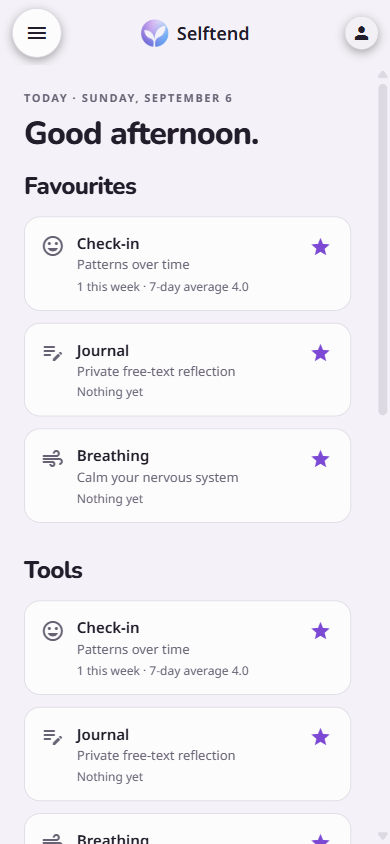
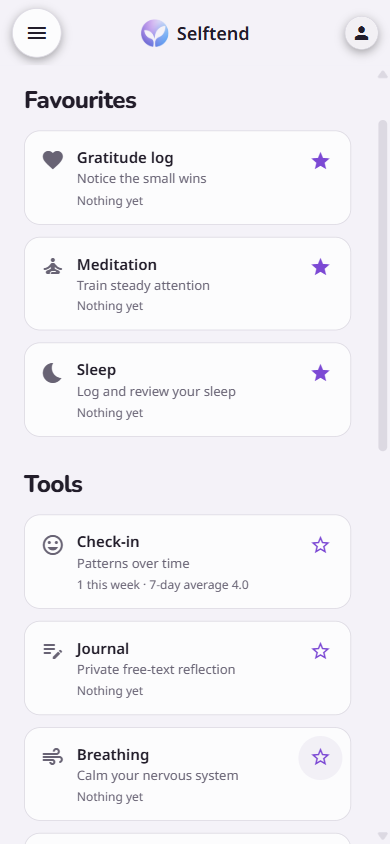
fix(store): the lead image stops carrying a date, and a card stops appearing twice (#2041)
Review of the first commit found two flaws in the new Home mockup that the
ticket did not ask about and that neither the old asset nor any test would have
surfaced.

☠ The capture baked `TODAY · SUNDAY, SEPTEMBER 6` into the store's lead image.
A feature graphic outlives the day it was shot by months, so a printed date is
staleness with a timestamp on it - more visible, eventually, than the American
spellings this ticket exists to remove. Not a regression: the July capture it
replaced carried `THURSDAY, JULY 16` for its whole life on the listing, which is
why the rule is now written down rather than just applied. The Home capture is
scrolled to put the `Favourites` heading under the app bar, leaving the greeting
card above the viewport.

⚠ Favourites is a pinned subset of the Tools list, so favouriting the first few
tools put the identical card on screen twice - Check-in, Journal and Breathing
appeared in both sections in frame. The favourites are now Gratitude log,
Meditation and Sleep, which sit low in the Tools list, so nothing repeats. The
visible Check-in card keeps its real stat line.

Also, from the standards pass: `store/play-listing.md` was re-teaching the
capture lesson the README owns, in prose that would drift out of step with it,
and had slipped into the present tense about a defect that no longer exists. It
now states the Console consequence, which is its own subject, and points at the
README for the rest.
[…]

diff --git a/store/play-listing.md b/store/play-listing.md
@@ -97,9 +97,9 @@ So the listing tells one story in Play's own terms: _mild content, designed for 
 
 ☠ **_“It is an image, so no gate can see it”_ was half wrong, and the wrong half is the useful one.** The PNG is unreadable to a gate; the **HTML it is rendered from is text in this repository**, and was ungated only by two accidents of corpus construction — `test/positioning-copy.test.ts` keeps `.md` files alone (`proseDocIds` filters on the extension), and `docs/launch/` sits in `PUBLISHED_RECORDS` because the directory also holds an already-posted Reddit banner. A store asset that is regenerated on demand is not the same kind of object as a banner that was posted once, and the exclusion does not distinguish them.
 
-☠ **A second defect rode in the same image and no copy edit reached it** ([#2041](https://github.com/Selftend/selftend/issues/2041)). The three phone mockups were pre-v0.5.0 captures that legibly read **"Cognitive Behavioral Therapy"**, **"Your CBT program"** and **"Start program"** — the American spellings `verify` bans in app copy ([#1627](https://github.com/Selftend/selftend/issues/1627), [#1651](https://github.com/Selftend/selftend/issues/1651)), published inside a store asset. Those words exist only as pixels, so the fix was new captures from a current build, not an edit to the HTML.
+☠ **A second defect rode in the same image and no copy edit reached it** ([#2041](https://github.com/Selftend/selftend/issues/2041)). The three phone mockups were pre-v0.5.0 captures that legibly read **"Cognitive Behavioral Therapy"**, **"Your CBT program"** and **"Start program"** — the American spellings `verify` bans in app copy ([#1627](https://github.com/Selftend/selftend/issues/1627), [#1651](https://github.com/Selftend/selftend/issues/1651)), published inside a store asset. Those words existed only as pixels, so the fix was new captures from a current build, not an edit to the HTML.
 
-✅ **Retaken 2026-09-06 and the PNG re-rendered.** ☠ The premise that this needed a device and therefore a human was wrong twice over: the mockups are **browser** captures at 390×844, and `staging.selftend.org` was already serving the current British spellings while **production still lagged** — so the capture source mattered more than the capture device. All three were replaced rather than just the offending one, because the middle mockup's Dashboard screen no longer exists in that shape and a lead image mixing two app generations is a worse asset than the one it replaces. ⚠ **The repository asset and the Console asset are now one review apart**: the graphic submitted earlier the same day carries the OLD mockups, so putting this one live is a further submission — bundle it with the #201 screenshot slots rather than spending a review on it alone, and do not stack it on the in-flight one. Recipe and the eye-check it needs: `docs/launch/play-listing/README.md`.
+✅ **Retaken 2026-09-06 and the PNG re-rendered**, all three mockups rather than only the offending one. ⚠ **The repository asset and the Console asset are now one review apart**: the graphic submitted earlier the same day carries the OLD mockups, so putting this one live is a further submission — bundle it with the #201 screenshot slots rather than spending a review on it alone, and do not stack it on the in-flight one. ☠ Which build you capture from decides whether the retake works at all, and it is not the obvious one; that, the recipe, and the eye-check no test can do are in `docs/launch/play-listing/README.md` rather than repeated here.
 
 The rest of the description was left as it was on purpose: the "Private by design" block, the 18+ line, and the closing "Important:" paragraph. That paragraph says "wellness and self-help tool" because it is the not-a-medical-device statement Play's health policy wants, and a guardrail outranks the frame ([AGENTS.md](../AGENTS.md) § Product guardrails).
 

diff --git a/docs/launch/play-listing/README.md b/docs/launch/play-listing/README.md
@@ -52,6 +52,17 @@ consent panel, finish the one onboarding panel, then star a few tools so Home is
 not empty. `/` is Home, `/modules/cbt` the CBT module, and `/tools/breathing` →
 _Box breathing_ → _Start_ gives the running session.
 
+☠ **Never let a date into the frame.** Home's greeting card prints
+`TODAY · <weekday>, <month> <day>`, and a store asset outlives the day it was
+shot by months — so the Home capture is deliberately **scrolled down to put the
+`Favourites` heading just under the app bar**, leaving the greeting above the
+viewport. The July capture this set replaced had `THURSDAY, JULY 16` baked into
+it for the whole of its life on the listing.
+
+⚠ Star tools that are **low** in the Tools list (Gratitude log, Meditation,
+Sleep). Favourites is a pinned subset of the same list, so favouriting the first
+few tools puts the identical card on screen twice.
+
 Two things the 2026-09-06 retake changed beyond the spellings:
 
 - **The middle mockup is Home, not the old Dashboard.** That screen no longer
